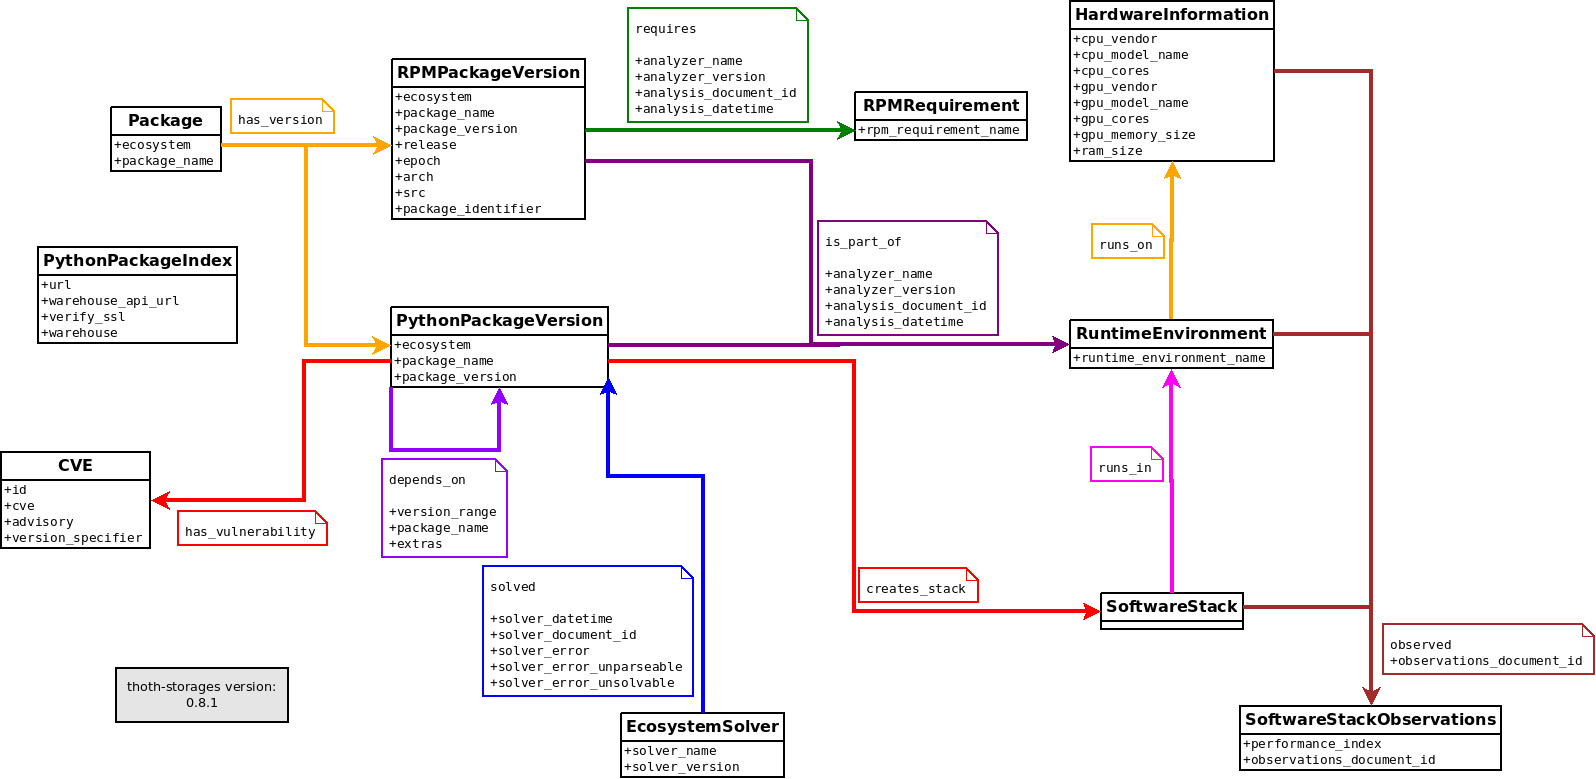
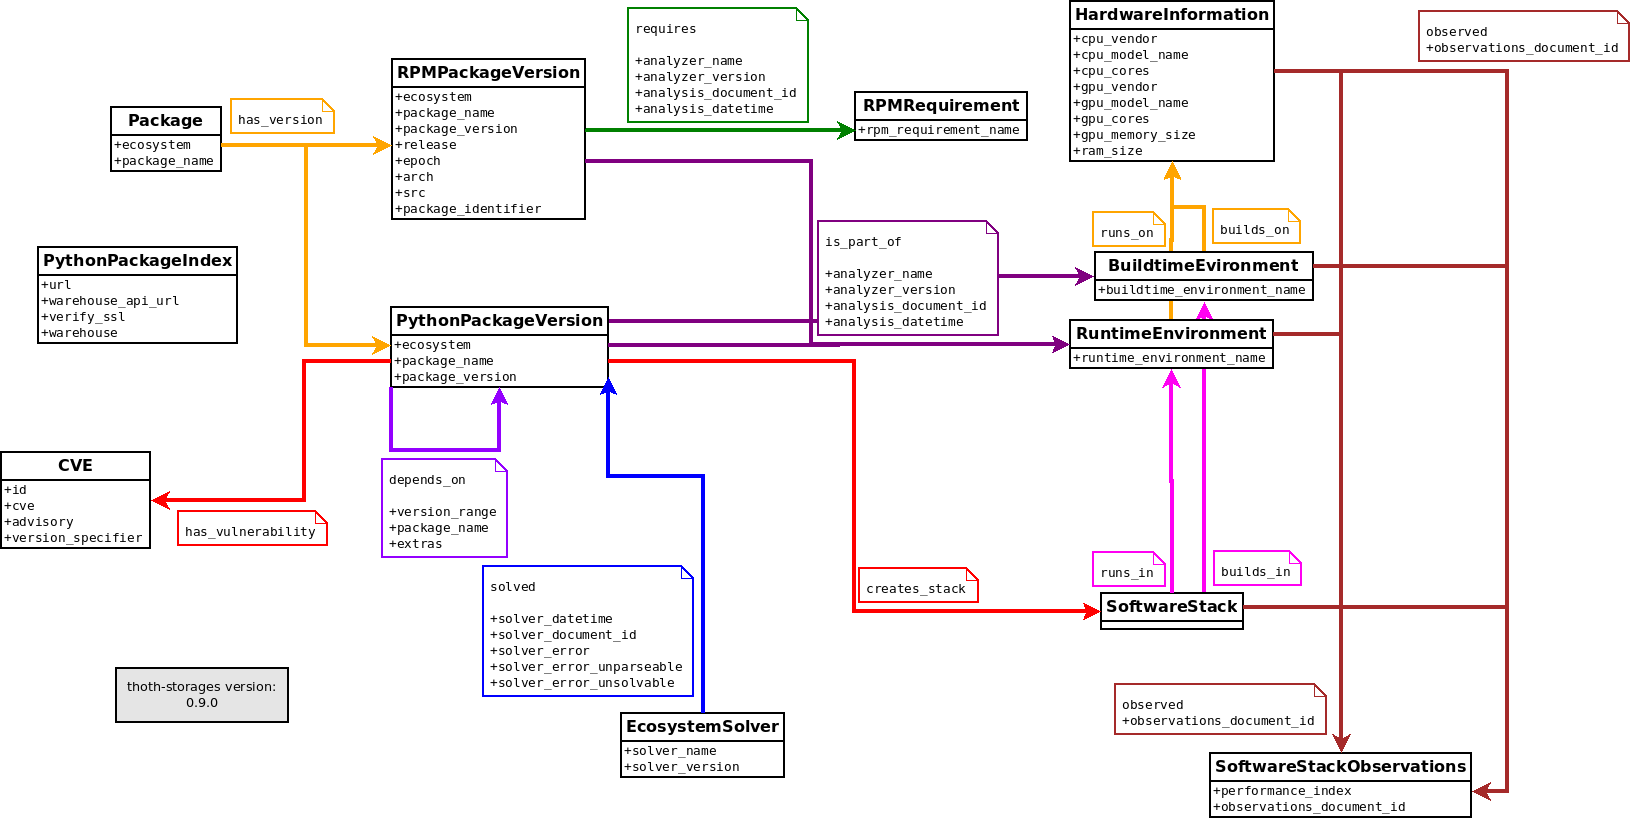
Introduce buildtime environment model

Changed region(s): [[0.0, 0.0, 1.0, 1.0], [0.0614, 0.801, 0.1842, 0.9551], [0.0, 0.3081, 0.1535, 0.4621]]

diff --git a/thoth/storages/graph/models.py b/thoth/storages/graph/models.py
@@ -94,7 +94,14 @@ class RuntimeEnvironment(VertexBase):
     """Environment such as container image which consists of various packages."""
 
     runtime_environment_name = VertexProperty(properties.String)
-    # TODO: capture hashes of layers
+    # TODO: capture hashes of layers to be precise?
+
+
+class BuildtimeEnvironment(VertexBase):
+    """Environment such as container image which consists of various packages."""
+
+    biuldtime_environment_name = VertexProperty(properties.String)
+    # TODO: capture hashes of layers to be precise?
 
 
 class SoftwareStack(VertexBase):
@@ -201,6 +208,18 @@ class RunsIn(EdgeBase):
     """The given software stack runs in a runtime environment."""
 
 
+class RunsOn(EdgeBase):
+    """The given software stack runs on the given hardware."""
+
+
+class BuildsIn(EdgeBase):
+    """The given software stack builds in a build environment."""
+
+
+class BuildsOn(EdgeBase):
+    """The given software stack builds on the given hardware."""
+
+
 class HasVulnerability(EdgeBase):
     """The given package-v version has a vulnerability."""
 
@@ -228,6 +247,9 @@ class DebReplaces(PackageExtractNativeBase):
 
 
 ALL_MODELS = frozenset((
+    BuildsIn,
+    BuildsOn,
+    BuildtimeEnvironment,
     CreatesStack,
     CVE,
     DebDepends,
@@ -245,6 +267,8 @@ ALL_MODELS = frozenset((
     Requires,
     RPMPackageVersion,
     RPMRequirement,
+    RunsIn,
+    RunsOn,
     RuntimeEnvironment,
     SoftwareStack,
     Solved,
